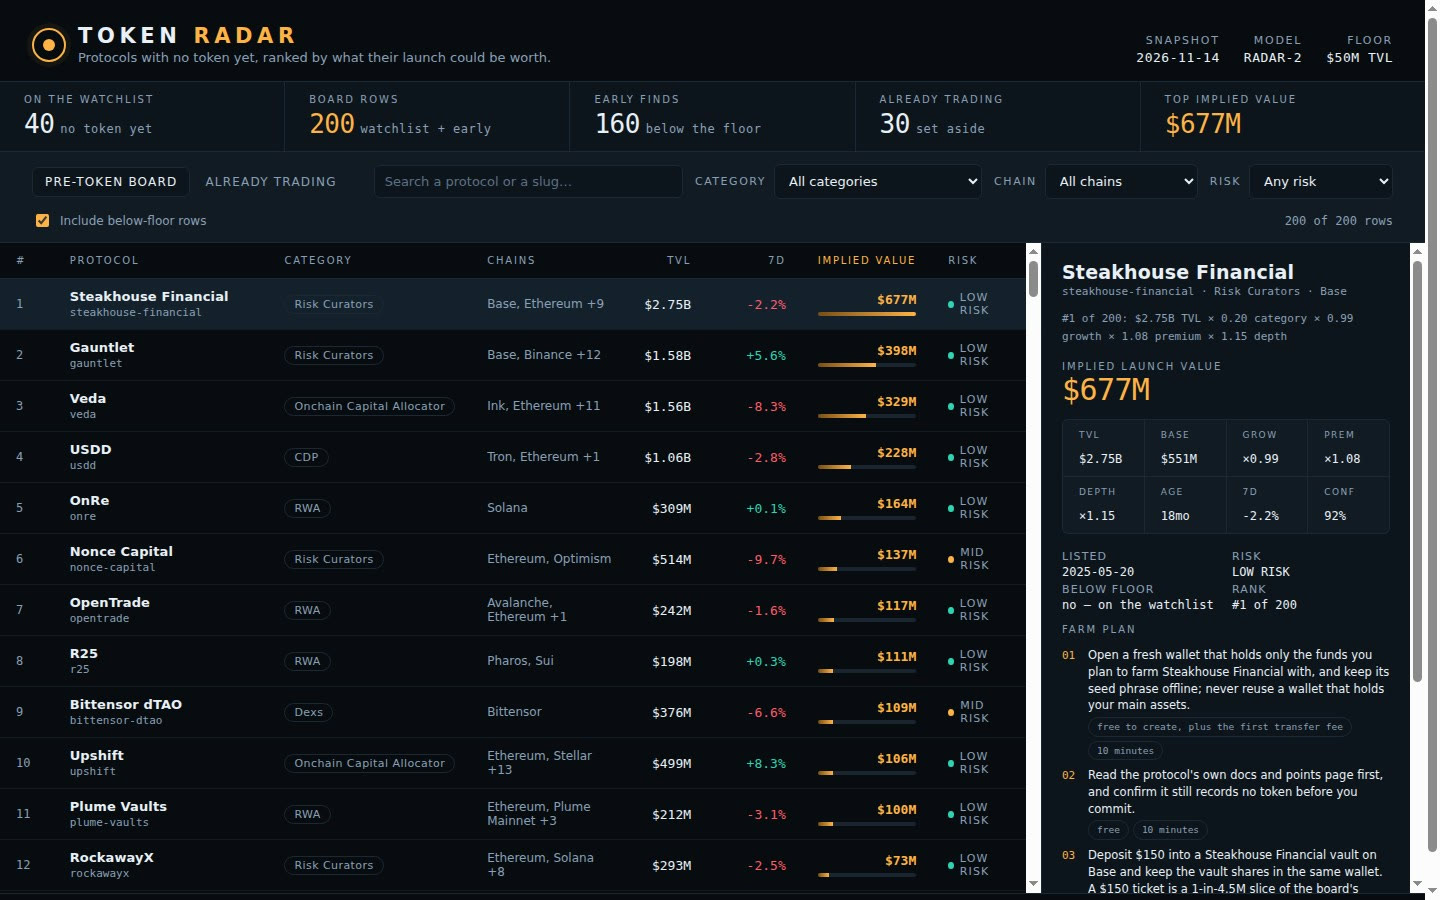
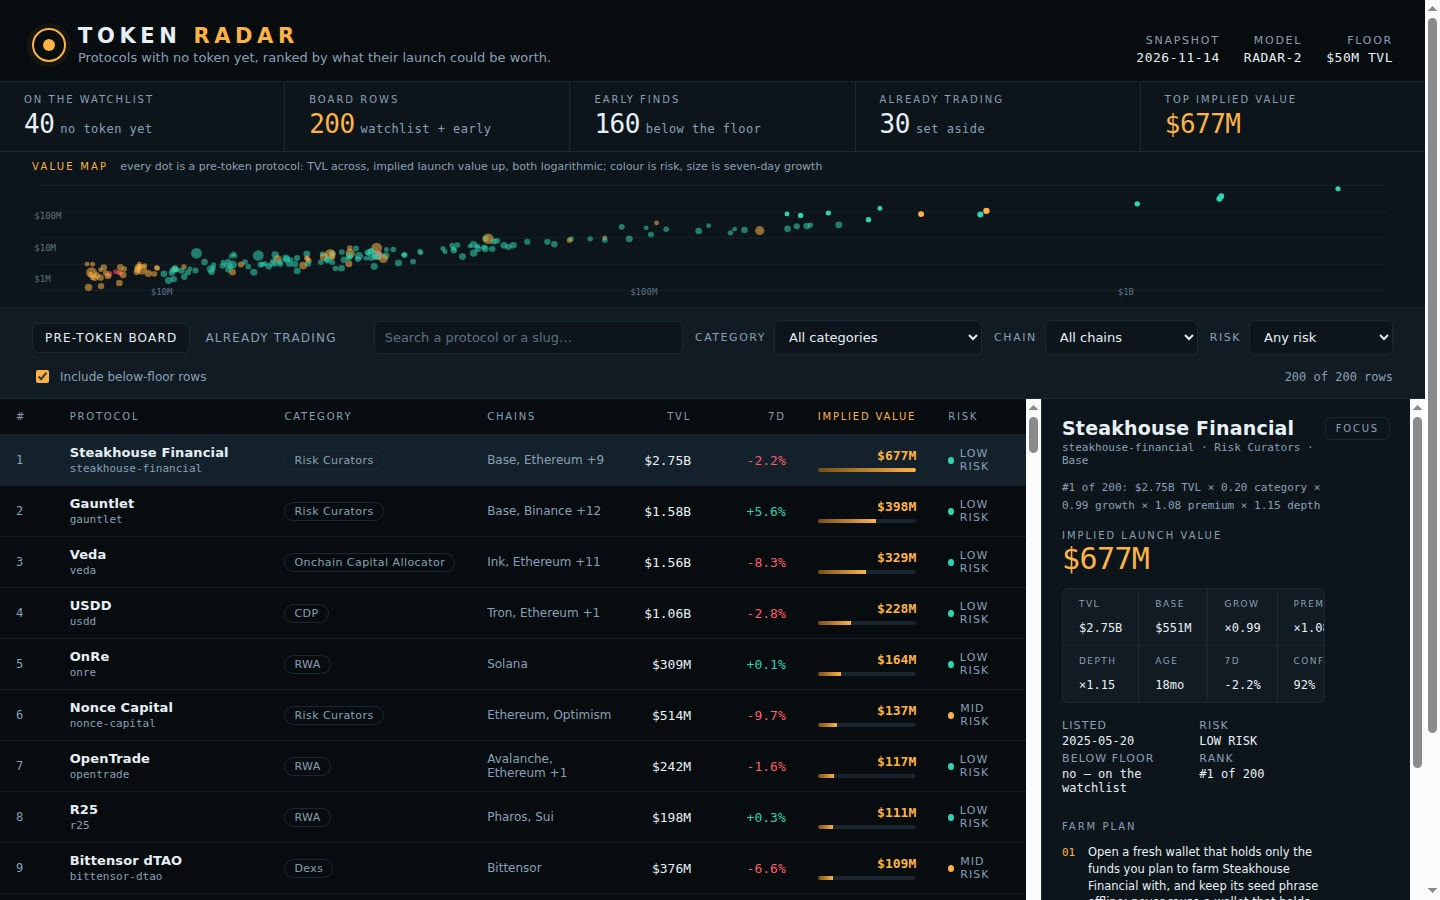
Value map strip: log-log scatter of TVL against implied launch value

diff --git a/dashboard/app.js b/dashboard/app.js
@@ -77,6 +77,15 @@
   var statTop = stat('TOP IMPLIED VALUE', fmtUsd(D.rows.length ? D.rows[0].implied_value_usd : 0), '', 'value');
   stats.append(statWatch, statBoard, statEarly, statLive, statTop);
 
+  var strip = el('section', 'strip');
+  var stripHead = el('div', 'strip-head');
+  stripHead.append(el('span', 'strip-title', 'VALUE MAP'), el('span', 'strip-note', 'every dot is a pre-token protocol: TVL across, implied launch value up, both logarithmic; colour is risk, size is seven-day growth'));
+  var mapSvg = document.createElementNS('http://www.w3.org/2000/svg', 'svg');
+  mapSvg.setAttribute('class', 'map');
+  mapSvg.setAttribute('viewBox', '0 0 1200 108');
+  mapSvg.setAttribute('preserveAspectRatio', 'none');
+  strip.append(stripHead, mapSvg);
+
   var bar = el('section', 'toolbar');
   var tabs = el('div', 'tabs');
   var tabBoard = el('button', 'tab on', 'PRE-TOKEN BOARD');
@@ -157,7 +166,7 @@
   var footR = el('div', 'right', D.source + ' · ' + D.board_size + ' rows · model ' + D.model_version);
   foot.append(footL, footR);
 
-  app.append(head, stats, bar, main, foot);
+  app.append(head, stats, strip, bar, main, foot);
 
   // ── filtering and sorting ─────────────────────────────────────────────────
   function rowsFor() {
@@ -188,6 +197,57 @@
       return a.rank - b.rank;
     });
     return list;
+  }
+
+  function drawMap(list) {
+    var W = 1200, H = 108, pad = 6;
+    mapSvg.textContent = '';
+    if (!list.length) return;
+    var xs = list.map(function (r) { return Math.log10(Math.max(r.tvl_usd, 1e5)); });
+    var ys = list.map(function (r) { return Math.log10(Math.max(r.implied_value_usd, 1)); });
+    var x0 = Math.min.apply(null, xs) - 0.1, x1 = Math.max.apply(null, xs) + 0.1;
+    var y0 = Math.min.apply(null, ys) - 0.1, y1 = Math.max.apply(null, ys) + 0.1;
+    var sx = function (v) { return pad + (v - x0) / (x1 - x0) * (W - pad * 2); };
+    var sy = function (v) { return H - pad - (v - y0) / (y1 - y0) * (H - pad * 2); };
+    var ns = 'http://www.w3.org/2000/svg';
+    for (var g = 0; g <= 4; g += 1) {
+      var line = document.createElementNS(ns, 'line');
+      var gy = pad + g * (H - pad * 2) / 4;
+      line.setAttribute('x1', pad); line.setAttribute('x2', W - pad);
+      line.setAttribute('y1', gy.toFixed(1)); line.setAttribute('y2', gy.toFixed(1));
+      line.setAttribute('stroke', '#16202c'); line.setAttribute('stroke-width', '1');
+      mapSvg.append(line);
+    }
+    function money(v) {
+      if (v >= 1e9) return '$' + (v / 1e9).toFixed(0) + 'B';
+      if (v >= 1e6) return '$' + (v / 1e6).toFixed(0) + 'M';
+      if (v >= 1e3) return '$' + Math.round(v / 1e3) + 'K';
+      return '$' + v;
+    }
+    function tick(value, x, y, anchor) {
+      var t = document.createElementNS(ns, 'text');
+      t.setAttribute('x', x.toFixed(1));
+      t.setAttribute('y', y.toFixed(1));
+      t.setAttribute('fill', '#5d7186');
+      t.setAttribute('font-size', '8');
+      t.setAttribute('font-family', 'ui-monospace, monospace');
+      t.setAttribute('text-anchor', anchor);
+      t.textContent = money(value);
+      mapSvg.append(t);
+    }
+    for (var e = Math.ceil(x0); e <= Math.floor(x1); e += 1) tick(Math.pow(10, e), sx(e), H - 2, 'middle');
+    for (var f = Math.ceil(y0); f <= Math.floor(y1); f += 1) tick(Math.pow(10, f), 2, sy(f) + 3, 'start');
+    var colors = { low: '#2fd4b4', medium: '#ffb347', high: '#ff5d6c' };
+    list.slice().sort(function (a, b) { return b.implied_value_usd - a.implied_value_usd; }).forEach(function (r, i) {
+      var c = document.createElementNS(ns, 'circle');
+      var g = r.change_7d === null ? 0 : Math.max(-1, Math.min(1, r.change_7d / 40));
+      c.setAttribute('cx', sx(Math.log10(Math.max(r.tvl_usd, 1e5))).toFixed(1));
+      c.setAttribute('cy', sy(Math.log10(Math.max(r.implied_value_usd, 1))).toFixed(1));
+      c.setAttribute('r', (2.2 + Math.abs(g) * 2.6).toFixed(1));
+      c.setAttribute('fill', colors[r.risk] || '#8ba0b8');
+      c.setAttribute('opacity', i < 12 ? '1' : '0.55');
+      mapSvg.append(c);
+    });
   }
 
   function renderBoard() {
@@ -236,6 +296,7 @@
       tbody.append(tr);
     });
     countLine.textContent = list.length + ' of ' + D.rows.length + ' rows';
+    drawMap(list);
   }
 
   function renderLive() {

diff --git a/dashboard/app.css b/dashboard/app.css
@@ -47,6 +47,13 @@ body { min-height: 100vh; }
 .stat .v small { font-size: 12px; color: var(--muted); letter-spacing: .04em; margin-left: 6px; }
 .stat.value .v { color: var(--accent); }
 
+/* ── Value map strip ─────────────────────────────────────────────────────── */
+.strip { padding: 8px var(--s6) 10px; background: var(--panel); border-bottom: 1px solid var(--line); }
+.strip-head { display: flex; align-items: baseline; gap: var(--s3); margin-bottom: 6px; }
+.strip-title { font-size: 10px; letter-spacing: .22em; color: var(--accent); }
+.strip-note { font-size: 11px; color: var(--muted); }
+.map { width: 100%; height: 118px; display: block; overflow: visible; }
+
 /* ── Toolbar ──────────────────────────────────────────────────────────────── */
 .toolbar { display: flex; flex-wrap: wrap; align-items: center; gap: var(--s3);
   padding: var(--s3) var(--s6); background: var(--panel-2); border-bottom: 1px solid var(--line); }
